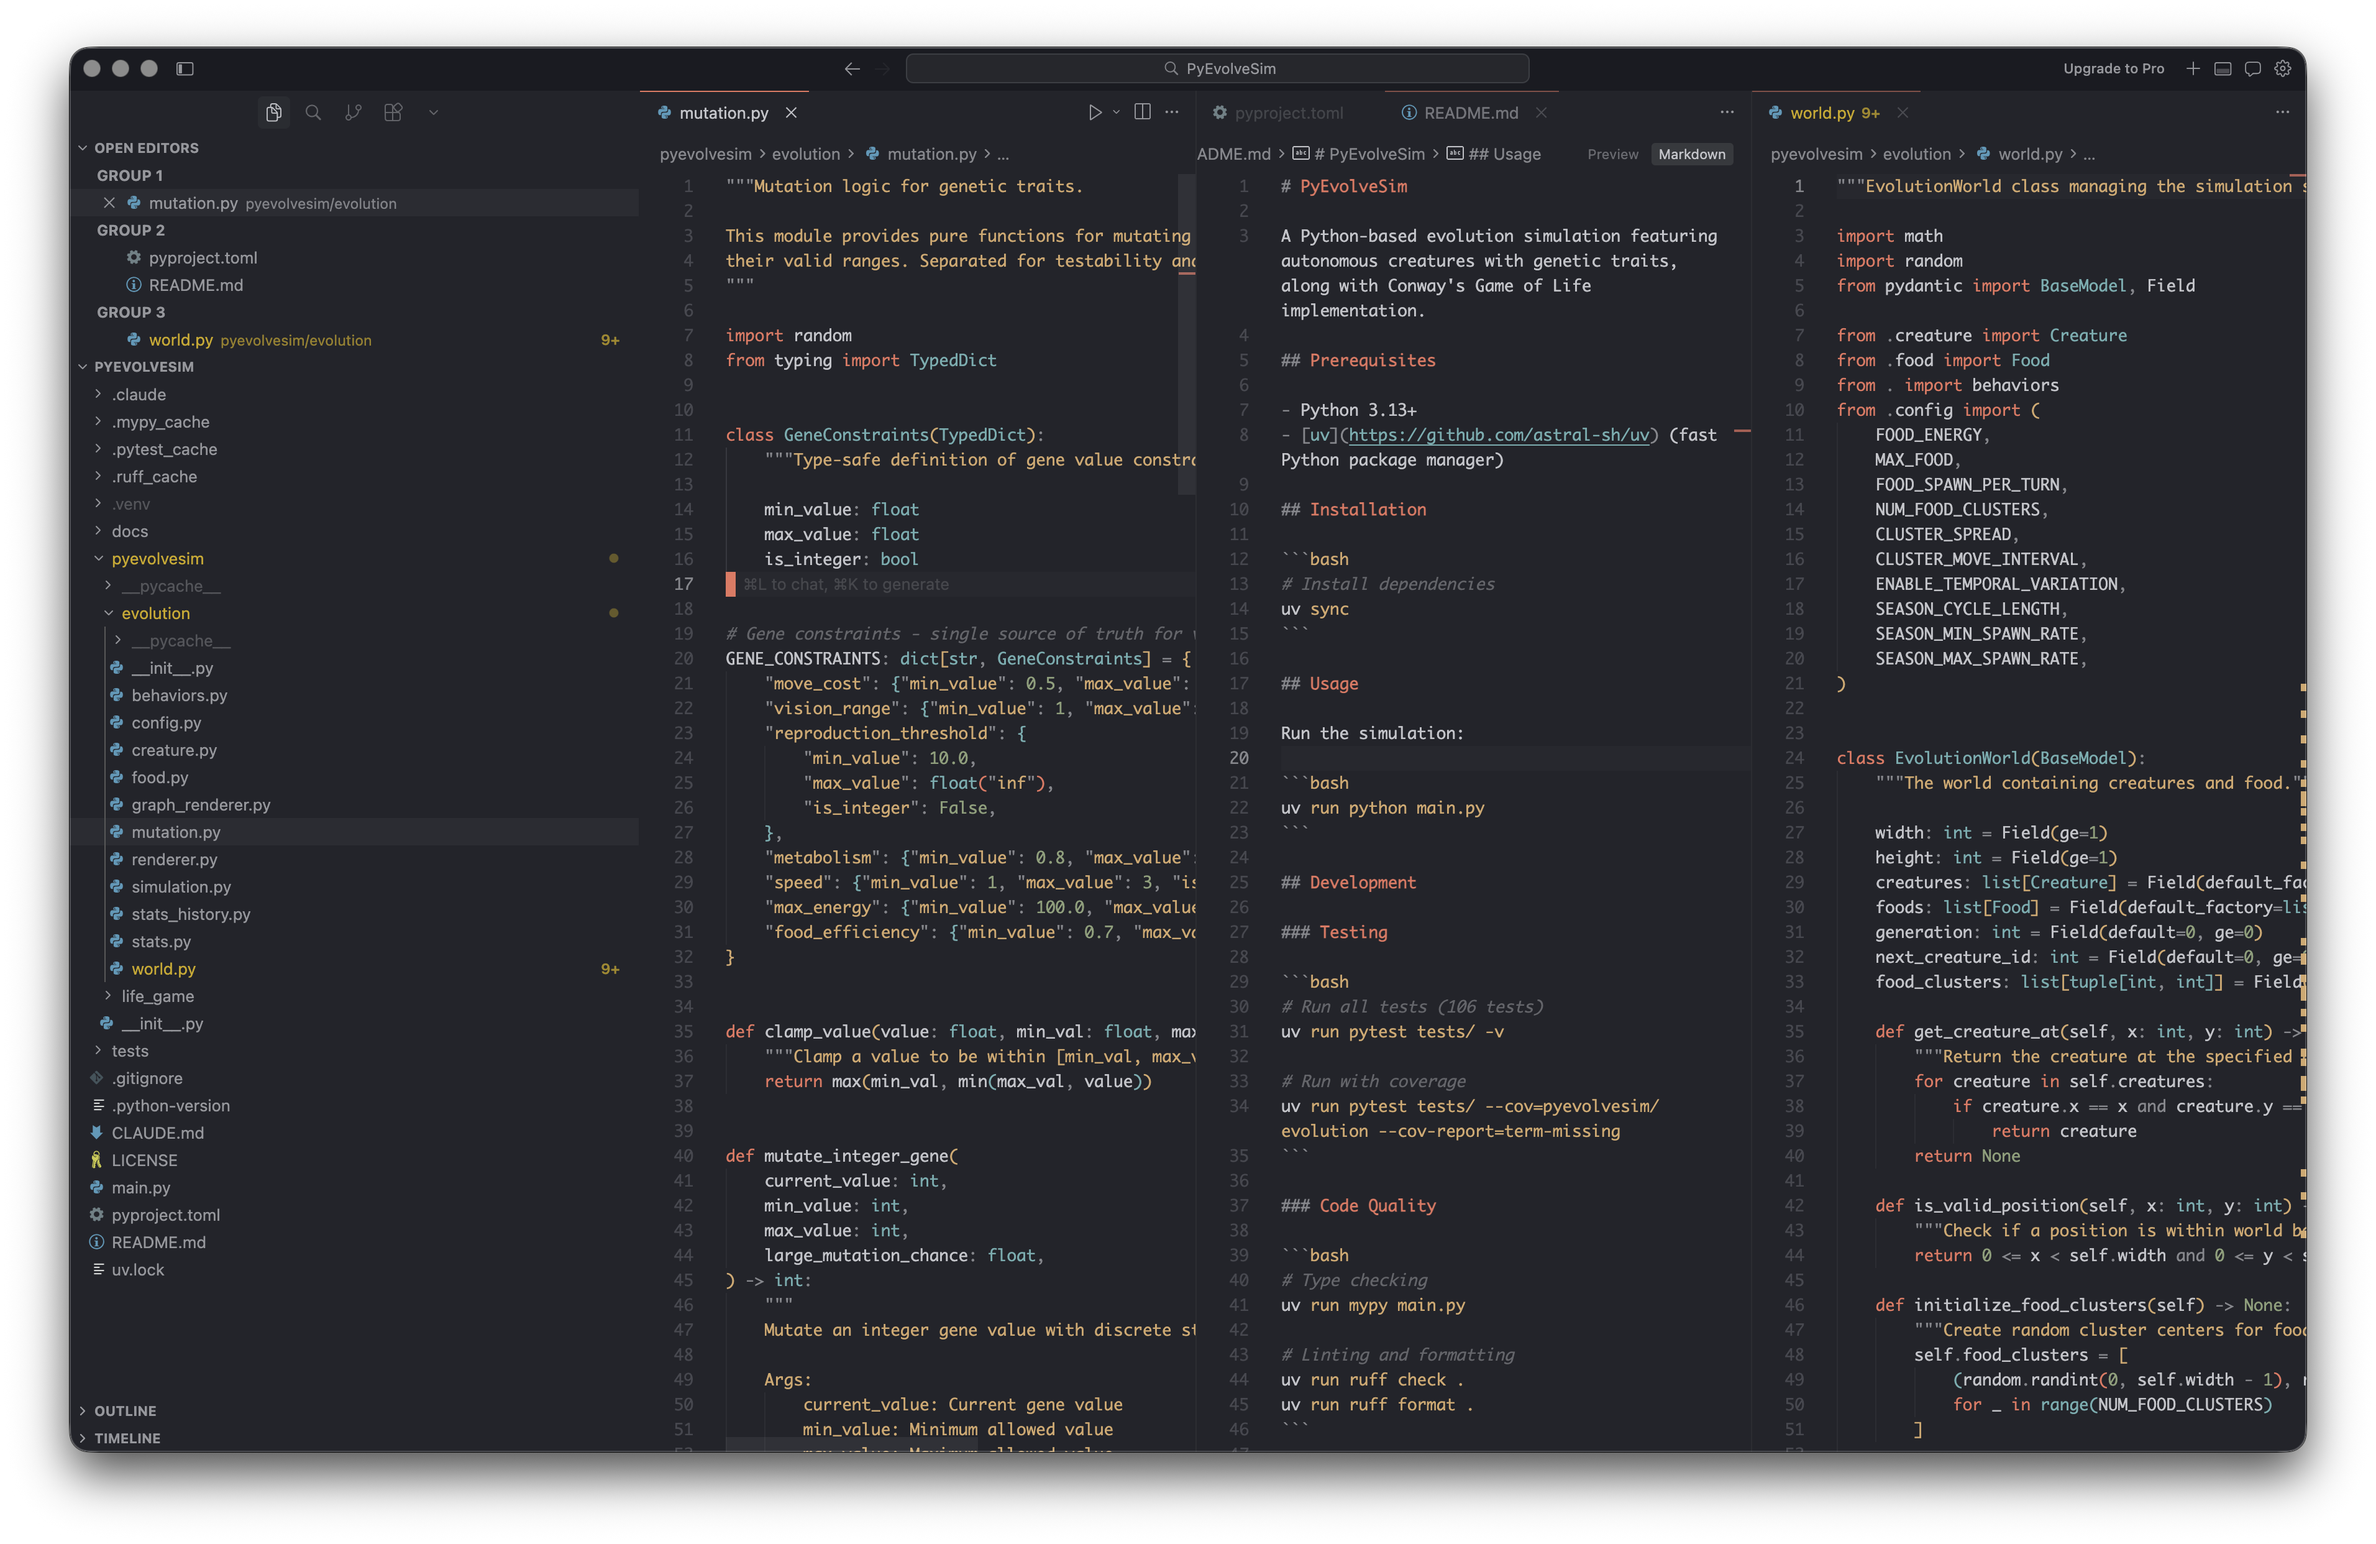
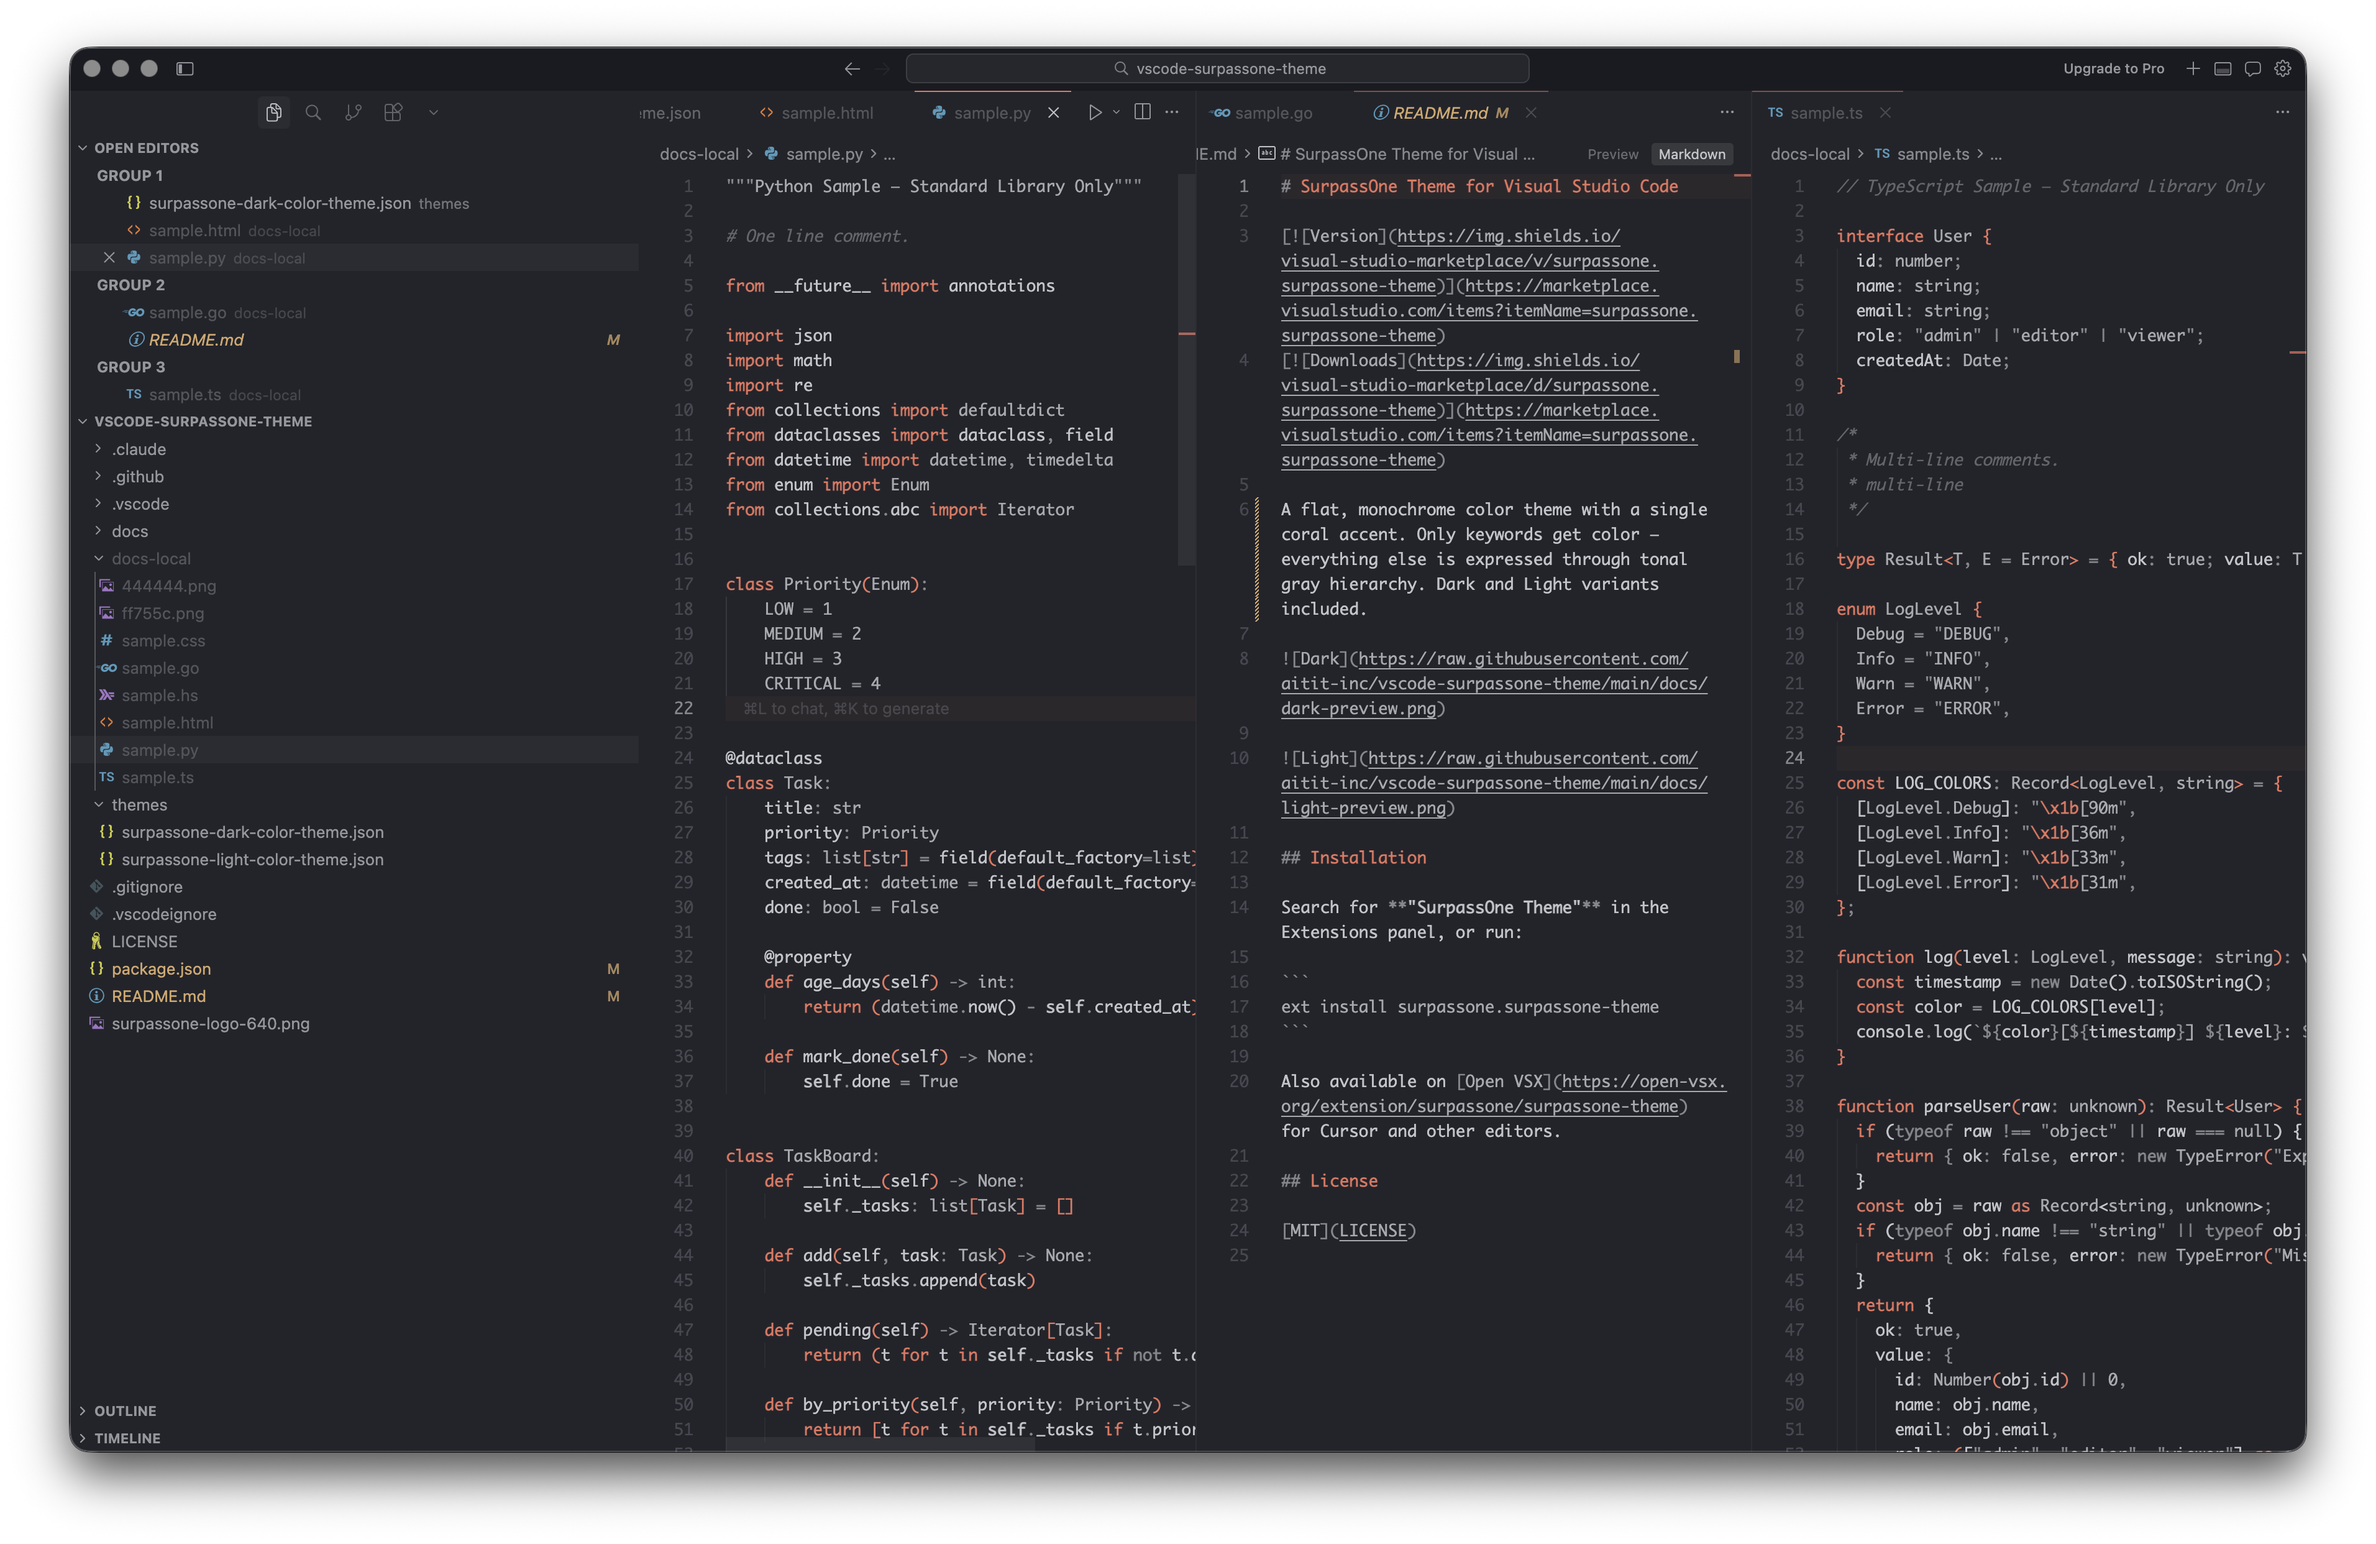
v0.3.0: monochrome one-color theme with tonal gray hierarchy

diff --git a/README.md b/README.md
@@ -3,7 +3,7 @@
 [![Version](https://img.shields.io/visual-studio-marketplace/v/surpassone.surpassone-theme)](https://marketplace.visualstudio.com/items?itemName=surpassone.surpassone-theme)
 [![Downloads](https://img.shields.io/visual-studio-marketplace/d/surpassone.surpassone-theme)](https://marketplace.visualstudio.com/items?itemName=surpassone.surpassone-theme)
 
-A flat, minimal color theme with warm accents. Designed for daily use with easy-on-the-eyes colors. Dark and Light variants included.
+A flat, monochrome color theme with a single coral accent. Only keywords get color — everything else is expressed through tonal gray hierarchy. Dark and Light variants included.
 
 ![Dark](https://raw.githubusercontent.com/aitit-inc/vscode-surpassone-theme/main/docs/dark-preview.png)
 
